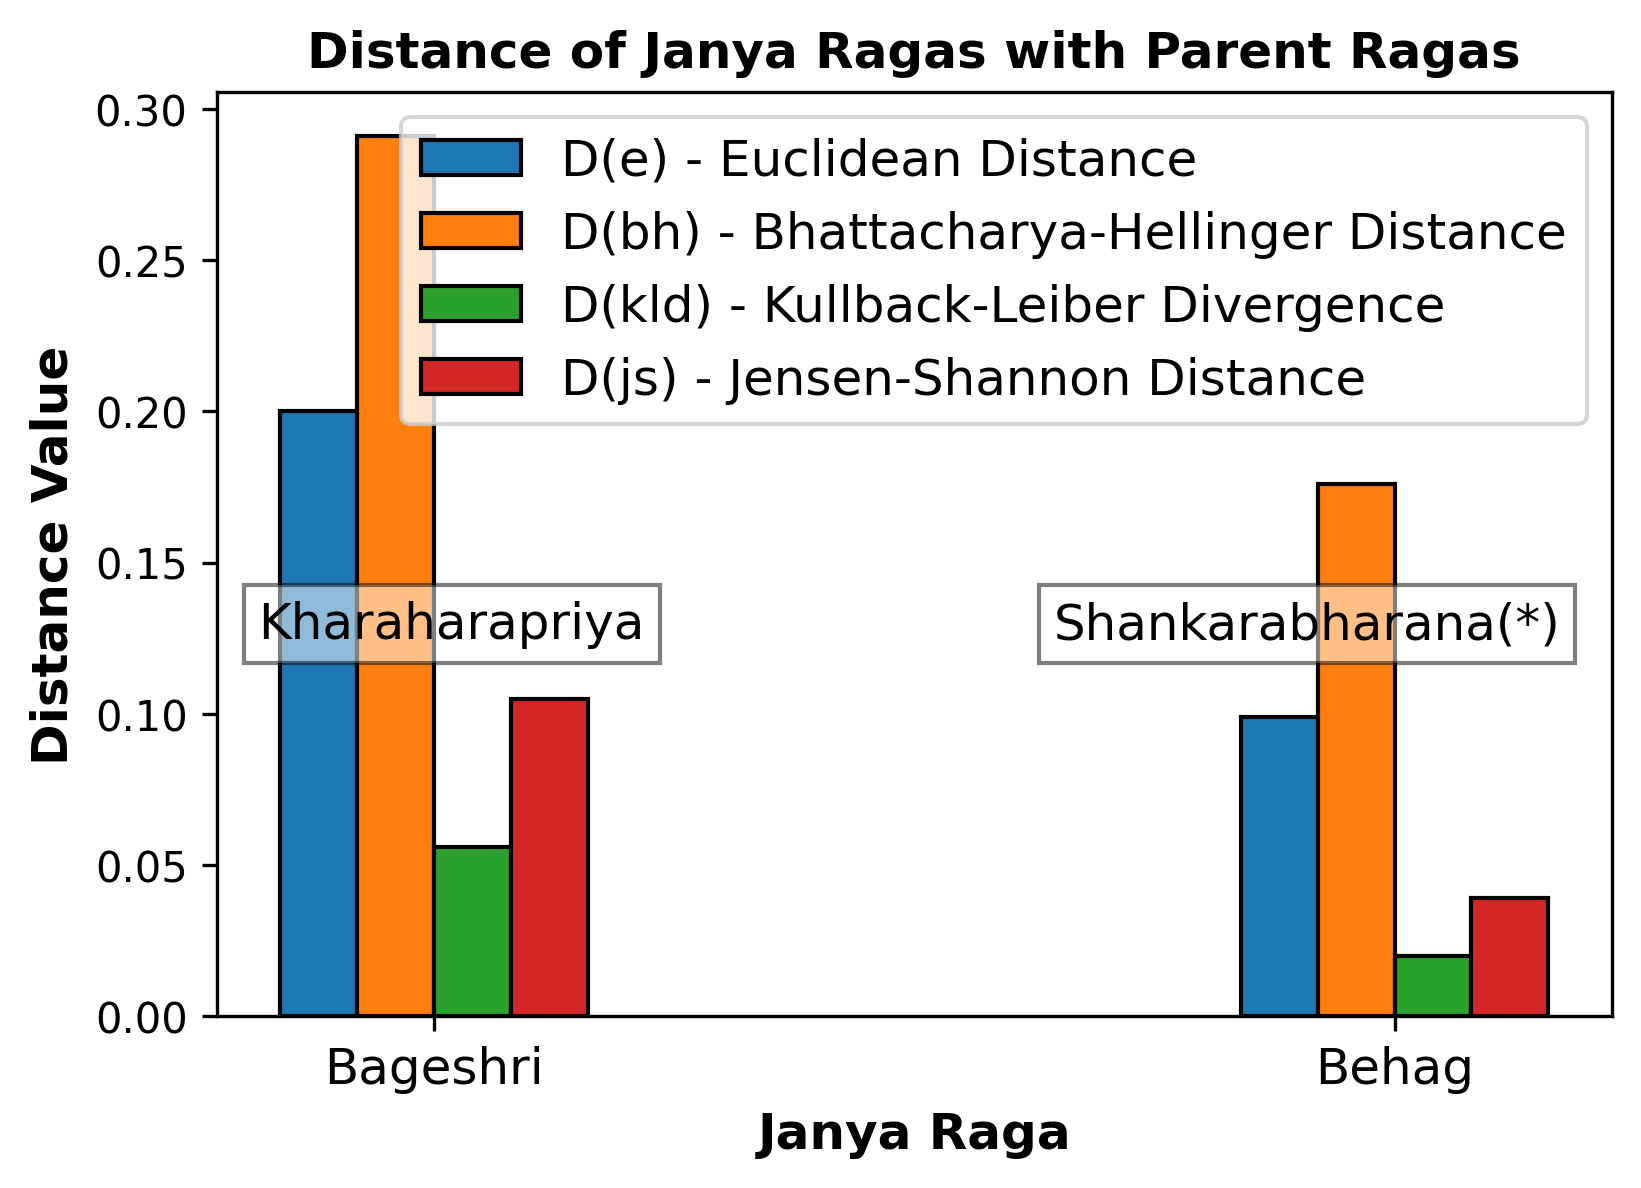
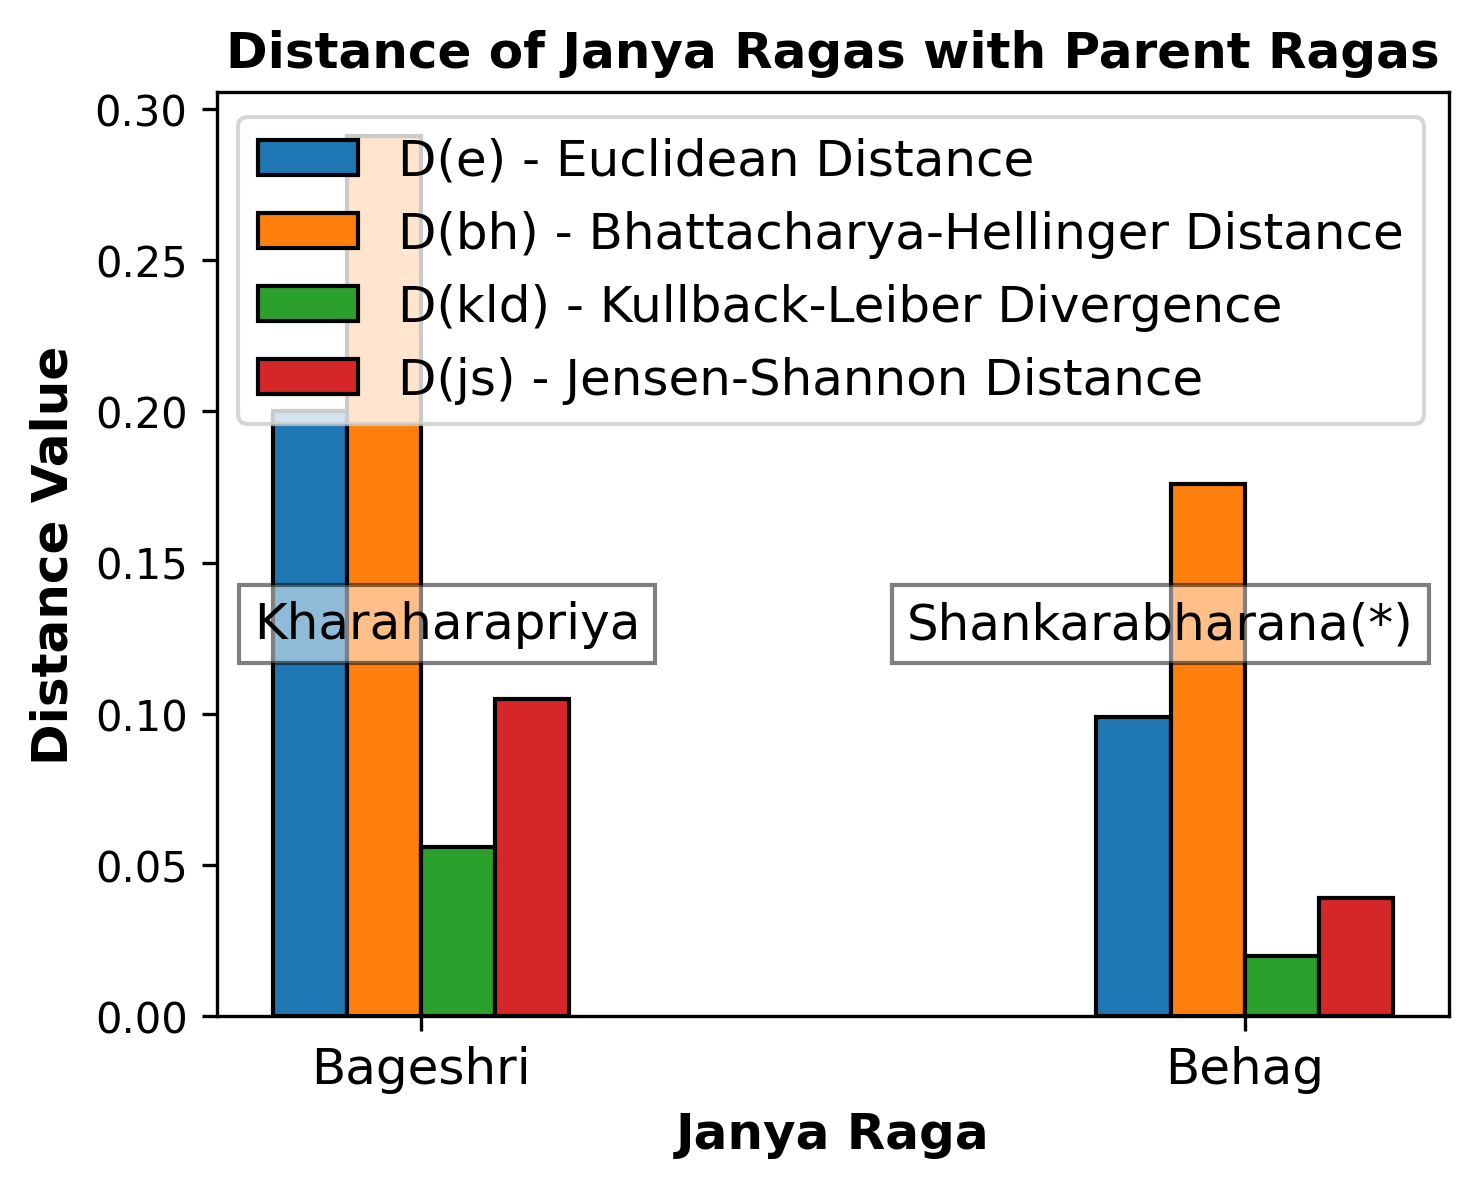
changes in plots.

Changed region(s): [[0.0, 0.0623, 0.9959, 0.9343], [0.1556, 0.0, 0.9959, 0.0623], [0.4357, 0.9343, 0.6847, 0.9966]]

diff --git a/plot_tables_v14.py b/plot_tables_v14.py
@@ -36,13 +36,13 @@ plot_hline = False
 # barWidth = 0.15
 # barWidth = 0.12
 # barWidth = 0.10
-barWidth = 0.08
+barWidth = 0.09
 # bbox_shift = [1, 1]
 
 # set height and width of figure
 height = 4
 # height = 6
-width = 6
+width = 5.3
 # width = 8
 # width = 10
 # width = 12
@@ -128,7 +128,7 @@ def plot_figure(barWidth, height, width, sym_list, color_list, color_flag, janak
         textstr_list = [f"Kharaharapriya", f"Shankarabharana(*)"]
         props = dict(boxstyle='square', facecolor='white', alpha=0.5)
         # box_locs = [r + barWidth*(len(janaka_list)-1)/2 for r in range(len(janaka_list[list(janaka_list.keys())[0]]))]
-        box_locs = [0.03, 0.6]
+        box_locs = [0.03, 0.56]
         v_locs = [0.45, 0.45]
         for idx in range(0,len(box_locs)):
                 plt.text(box_locs[idx], v_locs[idx], textstr_list[idx], transform=ax.transAxes, fontsize=12, verticalalignment='top', bbox=props)
